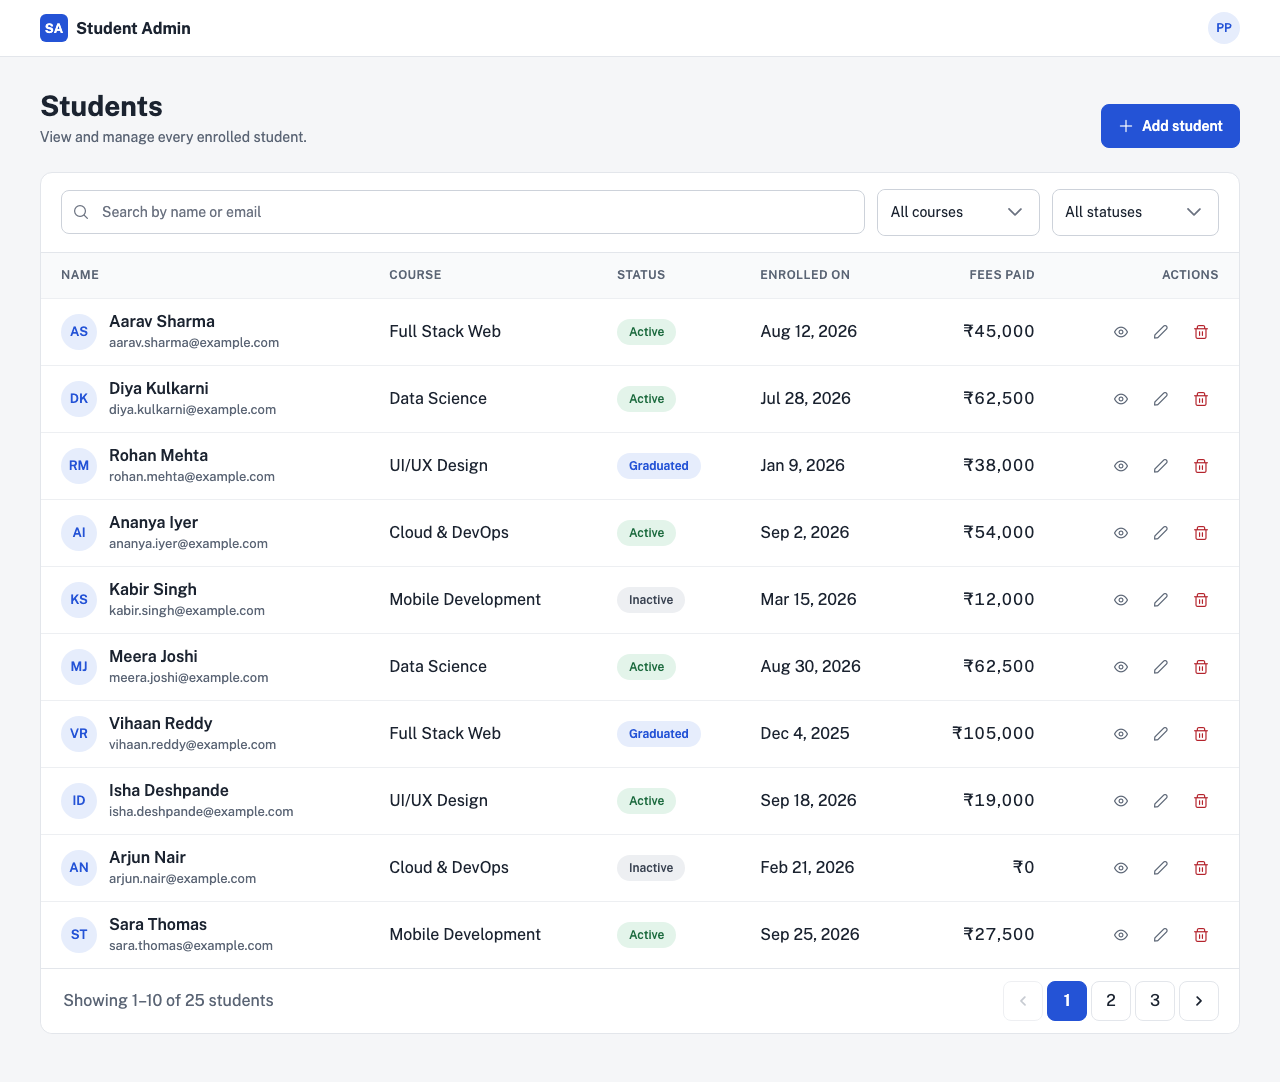
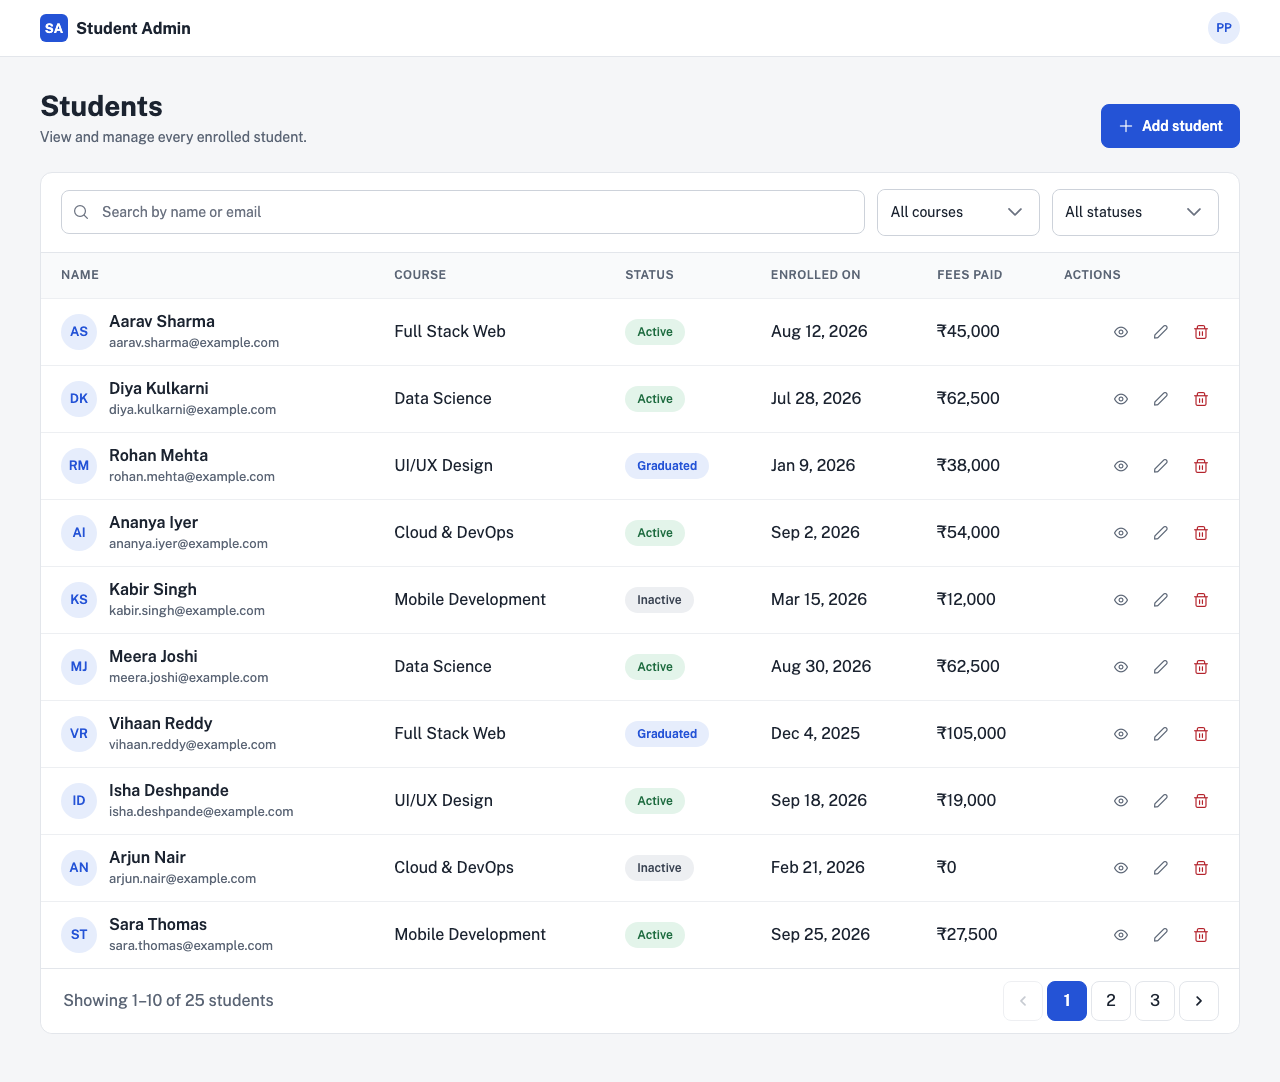
HW1: show students as cards on phones (≤ 768px)
On phones the table scrolled sideways inside its box, so only the name
and half the course were visible. Each row is now a card: name + status
on top, Course / Enrolled on / Fees paid as label-value lines, actions
at the bottom. Tablets (769–1024) keep the in-box scrolling table.

PrimeReact's responsiveLayout="stack" renders the per-cell labels; its
runtime-injected CSS did not apply in Next.js, so the card layout lives
in _app-data-table.scss. Mobile design frame, design check, responsive
report, walkthrough and screenshots updated.

diff --git a/docs/design/Mobile.dc.html b/docs/design/Mobile.dc.html
@@ -61,37 +61,35 @@ a{color:#2453D6}a:hover{color:#1A3FA8}
         </label>
       </div>
 
-      <!-- Table scrolls sideways inside this box only; the page itself never scrolls sideways -->
-      <div style="overflow-x: auto">
-        <table style="min-width: 760px; width: 100%; border-collapse: collapse; text-align: left">
-          <thead>
-            <tr style="background: #F9FAFB; color: #5B6575; font-size: 12px; text-transform: uppercase; letter-spacing: 0.04em">
-              <th style="padding: 10px 12px; font-weight: 600">Name</th>
-              <th style="padding: 10px 12px; font-weight: 600">Course</th>
-              <th style="padding: 10px 12px; font-weight: 600">Status</th>
-              <th style="padding: 10px 12px; font-weight: 600">Enrolled on</th>
-              <th style="padding: 10px 12px; font-weight: 600; text-align: right">Fees paid</th>
-            </tr>
-          </thead>
-          <tbody>
-            <sc-for list="{{rows}}" as="row" hint-placeholder-count="6">
-              <tr style="border-top: 1px solid #EDEFF2">
-                <td style="padding: 10px 12px">
-                  <div style="display: flex; flex-direction: column">
-                    <span style="font-weight: 600">{{row.name}}</span>
-                    <span style="color: #5B6575; font-size: 12px">{{row.email}}</span>
-                  </div>
-                </td>
-                <td style="padding: 10px 12px">{{row.course}}</td>
-                <td style="padding: 10px 12px"><span style="{{row.tagStyle}}">{{row.status}}</span></td>
-                <td style="padding: 10px 12px; color: #3A4352">{{row.enrolledOn}}</td>
-                <td style="padding: 10px 12px; text-align: right">{{row.fees}}</td>
-              </tr>
-            </sc-for>
-          </tbody>
-        </table>
+      <!-- Card list: one card per student, every field visible without sideways scrolling -->
+      <div style="display: flex; flex-direction: column">
+        <sc-for list="{{rows}}" as="row" hint-placeholder-count="5">
+          <article style="position: relative; padding: 16px; border-top: 1px solid #EDEFF2; display: flex; flex-direction: column; gap: 4px">
+            <div style="display: flex; align-items: center; gap: 12px; padding-right: 96px; padding-bottom: 8px">
+              <span style="flex: none; width: 36px; height: 36px; border-radius: 50%; background: #E6EDFC; color: #2453D6; display: flex; align-items: center; justify-content: center; font-weight: 600; font-size: 13px">{{row.initials}}</span>
+              <div style="display: flex; flex-direction: column; min-width: 0">
+                <span style="font-weight: 600">{{row.name}}</span>
+                <span style="color: #5B6575; font-size: 12px; overflow: hidden; text-overflow: ellipsis; white-space: nowrap">{{row.email}}</span>
+              </div>
+            </div>
+            <span style="position: absolute; top: 16px; right: 16px"><span style="{{row.tagStyle}}">{{row.status}}</span></span>
+            <div style="display: flex; justify-content: space-between; gap: 16px"><span style="color: #5B6575; font-size: 13px">Course</span><span>{{row.course}}</span></div>
+            <div style="display: flex; justify-content: space-between; gap: 16px"><span style="color: #5B6575; font-size: 13px">Enrolled on</span><span>{{row.enrolledOn}}</span></div>
+            <div style="display: flex; justify-content: space-between; gap: 16px"><span style="color: #5B6575; font-size: 13px">Fees paid</span><span>{{row.fees}}</span></div>
+            <div style="display: flex; justify-content: flex-end; gap: 4px; margin-top: 8px; padding-top: 8px; border-top: 1px solid #EDEFF2">
+              <button type="button" aria-label="View student" style="width: 44px; height: 44px; border: 0; border-radius: 8px; background: transparent; color: #5B6575; display: flex; align-items: center; justify-content: center">
+                <svg width="18" height="18" viewBox="0 0 24 24" fill="none" stroke="currentColor" stroke-width="2" stroke-linecap="round" stroke-linejoin="round" aria-hidden="true"><path d="M2 12s3.6-7 10-7 10 7 10 7-3.6 7-10 7S2 12 2 12z"/><circle cx="12" cy="12" r="3"/></svg>
+              </button>
+              <button type="button" aria-label="Edit student" style="width: 44px; height: 44px; border: 0; border-radius: 8px; background: transparent; color: #5B6575; display: flex; align-items: center; justify-content: center">
+                <svg width="18" height="18" viewBox="0 0 24 24" fill="none" stroke="currentColor" stroke-width="2" stroke-linecap="round" stroke-linejoin="round" aria-hidden="true"><path d="M12 20h9"/><path d="M16.5 3.5a2.1 2.1 0 0 1 3 3L7 19l-4 1 1-4z"/></svg>
+              </button>
+              <button type="button" aria-label="Delete student" style="width: 44px; height: 44px; border: 0; border-radius: 8px; background: transparent; color: #B4232C; display: flex; align-items: center; justify-content: center">
+                <svg width="18" height="18" viewBox="0 0 24 24" fill="none" stroke="currentColor" stroke-width="2" stroke-linecap="round" stroke-linejoin="round" aria-hidden="true"><path d="M3 6h18M8 6V4h8v2M19 6l-1 14H6L5 6"/></svg>
+              </button>
+            </div>
+          </article>
+        </sc-for>
       </div>
-      <p style="margin: 0; padding: 8px 12px; color: #5B6575; font-size: 12px; border-top: 1px solid #EDEFF2">Swipe the table sideways to see all columns.</p>
 
       <!-- Pagination: wraps onto two lines -->
       <div style="padding: 12px; display: flex; flex-wrap: wrap; align-items: center; justify-content: center; gap: 8px; border-top: 1px solid #E3E6EB; color: #5B6575">
@@ -108,7 +106,7 @@ a{color:#2453D6}a:hover{color:#1A3FA8}
   </main>
 </div>
 </x-dc>
-<script type="text/x-dc" data-dc-script data-props='{"$preview":{"width":375,"height":1500}}'>
+<script type="text/x-dc" data-dc-script data-props='{"$preview":{"width":375,"height":2500}}'>
 class Component extends DCLogic {
 renderVals() {
 var tag = {
@@ -130,7 +128,7 @@ var data = [
 ];
 return {
 rows: data.map(function (d) {
-return { name: d[0], email: d[1], course: d[2], status: d[3], enrolledOn: d[4], fees: d[5], tagStyle: tag[d[3]] };
+return { name: d[0], email: d[1], course: d[2], status: d[3], enrolledOn: d[4], fees: d[5], tagStyle: tag[d[3]], initials: d[0].split(' ').map(function (p) { return p[0]; }).join('') };
 })
 };
 }

diff --git a/frontend/src/styles/components/_app-data-table.scss b/frontend/src/styles/components/_app-data-table.scss
@@ -125,29 +125,97 @@
 .app-data-table-table {
   width: 100%;
   min-width: $table-min-width;
-}
 
-// Number columns: right-aligned, digits line up
-.app-data-table-cell-number,
-.app-data-table-cell-actions {
-  text-align: right;
-
-  .p-column-header-content {
-    justify-content: flex-end;
+  @include below("md") {
+    min-width: 0;
   }
 }
 
-.app-data-table-cell-number {
-  font-variant-numeric: tabular-nums;
-  white-space: nowrap;
+// ---- Card layout (≤ 768px) ----
+// Each row becomes a card: header row hidden, every cell on its own line with its column name
+// as a label. PrimeReact already renders that label in each cell (.p-column-title, hidden by default).
+// AppDataTable sets responsiveLayout="stack" so those labels are rendered. PrimeReact's own
+// stack CSS is injected at runtime and didn't apply here, so the layout lives in this file.
+@include below("md") {
+  .app-data-table {
+    .p-datatable-thead {
+      display: none;
+    }
+
+    // Plain blocks, so the cards are exactly as wide as the list card
+    .p-datatable-table,
+    .p-datatable-tbody {
+      display: block;
+      width: 100%;
+    }
+
+    .p-datatable-tbody > tr:not(.p-datatable-emptymessage) {
+      position: relative;
+      display: block;
+      padding: $space-4;
+      border-top: $border-width solid c("gray-g3");
+
+      &:first-child {
+        border-top: none;
+      }
+
+      > td,
+      > td:first-child,
+      > td:last-child {
+        display: flex;
+        align-items: center;
+        justify-content: space-between;
+        gap: $space-4;
+        padding: $space-1 0;
+        border: none;
+        text-align: right;
+      }
+
+      // Label on the left ("Course", "Enrolled on", "Fees paid")
+      .p-column-title {
+        display: block;
+        flex: none;
+        color: c("gray-g7");
+        font-size: $font-size-sm;
+        text-align: left;
+      }
+
+      // Name: no label, full width, room on the right for the status pill
+      > td.app-data-table-cell-lead {
+        justify-content: flex-start;
+        padding-right: $card-badge-space;
+        padding-bottom: $space-3;
+        text-align: left;
+      }
+
+      // Status pill: top-right corner of the card, no label
+      > td.app-data-table-cell-badge {
+        position: absolute;
+        top: $space-4;
+        right: $space-4;
+        padding: 0;
+      }
+
+      // Actions: icons on the right, no label, divider above
+      > td.app-data-table-cell-actions {
+        justify-content: flex-end;
+        margin-top: $space-2;
+        padding-top: $space-2;
+        border-top: $border-width solid c("gray-g3");
+      }
+
+      > td.app-data-table-cell-lead,
+      > td.app-data-table-cell-badge,
+      > td.app-data-table-cell-actions {
+        .p-column-title {
+          display: none;
+        }
+      }
+    }
+  }
 }
 
-// Short values that must stay on one line (dates)
-.app-data-table-cell-nowrap {
-  white-space: nowrap;
-}
-
-// "Swipe sideways" hint, only where the table is wider than its box
+// "Swipe sideways" hint, only on tablets where the table is wider than its box (phones get cards)
 .app-data-table-scroll-hint {
   display: none;
   margin: 0;
@@ -156,7 +224,7 @@
   color: c("gray-g7");
   font-size: $font-size-xs;
 
-  @include below("lg") {
+  @include between("md", "lg") {
     display: block;
   }
 }

diff --git a/frontend/src/components/common/AppDataTable.tsx b/frontend/src/components/common/AppDataTable.tsx
@@ -2,6 +2,7 @@
 
 import type { ReactNode } from "react";
 import { DataTable, type DataTablePageEvent, type DataTableValue } from "primereact/datatable";
+import { BREAKPOINTS } from "@/utils/breakpoints";
 import TableSkeleton from "./TableSkeleton";
 
 interface AppDataTableProps<T extends DataTableValue> {
@@ -23,7 +24,8 @@ interface AppDataTableProps<T extends DataTableValue> {
 }
 
 // Shared list table: PrimeReact DataTable + WM loading/empty states + pagination.
-// The table scrolls sideways inside its own box, never the page.
+// Phones and small tablets (≤ 768px): each row becomes a card (CSS only, see _app-data-table.scss).
+// Wider screens: a normal table that scrolls sideways inside its own box if needed, never the page.
 export default function AppDataTable<T extends DataTableValue>({
   value,
   dataKey,
@@ -41,7 +43,7 @@ export default function AppDataTable<T extends DataTableValue>({
     return <TableSkeleton rows={rows} columns={5} label={`Loading ${recordLabel}…`} />;
   }
 
-  // Shown only on screens narrower than the table (see SCSS)
+  // Shown only on tablets where the table is wider than its box (see SCSS)
   const scrollHint =
     value.length > 0 ? (
       <p className="app-data-table-scroll-hint">Swipe the table sideways to see all columns.</p>
@@ -54,6 +56,9 @@ export default function AppDataTable<T extends DataTableValue>({
       aria-label={ariaLabel}
       value={value}
       dataKey={dataKey}
+      // "stack" makes PrimeReact render a column-name label in every cell (used by the card layout)
+      responsiveLayout="stack"
+      breakpoint={BREAKPOINTS.md}
       emptyMessage={emptyState}
       footer={scrollHint}
       paginator={value.length > 0}

diff --git a/frontend/src/components/students/StudentListScreen.tsx b/frontend/src/components/students/StudentListScreen.tsx
@@ -116,10 +116,15 @@ export default function StudentListScreen() {
           >
             <Column
               header="Name"
+              className="app-data-table-cell-lead"
               body={(student: Student) => <StudentNameCell name={student.name} email={student.email} />}
             />
             <Column header="Course" field="course" />
-            <Column header="Status" body={(student: Student) => <StudentStatusTag status={student.status} />} />
+            <Column
+              header="Status"
+              className="app-data-table-cell-badge"
+              body={(student: Student) => <StudentStatusTag status={student.status} />}
+            />
             <Column
               header="Enrolled on"
               className="app-data-table-cell-nowrap"

diff --git a/frontend/src/styles/_variables.scss b/frontend/src/styles/_variables.scss
@@ -100,6 +100,7 @@ $search-min-width: 17.5rem; // 280
 $table-min-width: 60rem; // 960: below this the table scrolls inside its box
 $state-text-max-width: 26.25rem; // 420
 $name-cell-max-width: 18rem; // 288: long emails get "…"
+$card-badge-space: 6.5rem; // 104: room for the status pill in the top-right of a card
 $skeleton-line-height: 0.75rem; // 12
 $skeleton-line-width: 70%;
 $skeleton-line-width-wide: 55%;

diff --git a/frontend/src/utils/breakpoints.ts b/frontend/src/utils/breakpoints.ts
@@ -1,0 +1,14 @@
+// WM breakpoints for TypeScript props that need a width (e.g. PrimeReact `breakpoint`).
+// Keep in sync with $breakpoints in src/styles/_variables.scss.
+export const BREAKPOINTS = {
+  xxl: "1920px",
+  xl2: "1600px",
+  xl: "1366px",
+  lg2: "1280px",
+  lg: "1024px",
+  md2: "991px",
+  md: "768px",
+  sm2: "640px",
+  sm: "480px",
+  xs: "375px",
+} as const;

diff --git a/frontend/src/styles/_mixins.scss b/frontend/src/styles/_mixins.scss
@@ -7,3 +7,10 @@
     @content;
   }
 }
+
+// Between two WM breakpoints, e.g. @include between("md", "lg") = 769px … 1024px
+@mixin between($from, $to) {
+  @media (width > map.get($breakpoints, $from)) and (width <= map.get($breakpoints, $to)) {
+    @content;
+  }
+}

diff --git a/docs/hw1-walkthrough.md b/docs/hw1-walkthrough.md
@@ -300,10 +300,11 @@ src/styles/
 
 ### Responsive (all screen sizes)
 - `@include below("md") { … }` = `@media (max-width: 768px) { … }`. The names map to the WM widths 1920, 1600, 1366, 1280, 1024, 991, 768, 640, 480 and 375.
-- The **table is wider than a phone**, so it gets `min-width: 960px` and sits inside a box with `overflow-x: auto`. The **table** scrolls sideways inside its box, **the page never does**. That's the WM rule "no sideways scroll".
-- On phones the filters stack (search on its own row, the two dropdowns share the next one), the "Add student" button wraps under the title, and the pagination wraps onto two lines.
+- **Phones and small tablets (≤ 768px): every row becomes a card.** The header row is hidden. Each cell sits on its own line with its column name as a label ("Course", "Enrolled on", "Fees paid"). The status pill sits in the top-right corner and the action icons along the bottom. PrimeReact renders those labels because `AppDataTable` sets `responsiveLayout="stack"`. The card look itself is our SCSS (`_app-data-table.scss`, the `below("md")` block).
+- **Tablets (769–1024px):** the table needs about 960px, so it gets `min-width: 960px` inside a box with `overflow-x: auto`. The **table** scrolls inside its box, and a small hint says "Swipe the table sideways". **The page itself never scrolls sideways.** That's the WM rule.
+- On phones the filters also stack (search on its own row, the two dropdowns share the next one), the "Add student" button wraps under the title, and the pagination wraps onto two lines.
 
-**Say it like this:** "All raw values live in `_variables.scss`. Components only use variables. Colours are CSS variables with a day and a night value of the same name, so dark mode is one switch. On small screens the table scrolls inside its own box, so the page never scrolls sideways."
+**Say it like this:** "All raw values live in `_variables.scss`. Components only use variables. Colours are CSS variables with a day and a night value of the same name, so dark mode is one switch. On phones each row becomes a card, and on tablets the table scrolls inside its own box, so the page never scrolls sideways."
 
 ---
 
@@ -375,7 +376,10 @@ Try to answer each one aloud before reading the answer.
     All colours are in `_variables.scss` as WM-named day/night pairs. Components use `c("name")`, which becomes a CSS variable. A grep audit found zero hex colours outside that file.
 
 13. **How did you make sure there's no sideways scroll on phones?**
-    The table scrolls inside its own `overflow-x: auto` box, and the filters and buttons wrap. A Playwright test checks `scrollWidth <= clientWidth` at all 10 WM widths for every state, and I checked the screenshots by eye.
+    At ≤ 768px every row becomes a card, so nothing is wider than the screen. On tablets the table scrolls inside its own `overflow-x: auto` box. The filters and buttons wrap. A Playwright test checks `scrollWidth <= clientWidth` at all 10 WM widths for every state, and I checked the screenshots by eye.
+
+13b. **Why cards on mobile instead of a scrolling table?**
+    The first version scrolled the table sideways on phones. You only saw the name and half the course, and status, dates, fees and the action buttons were hidden behind a swipe. Cards show every field at once. The design's mobile frame was updated to match.
 
 14. **Why is the date shown as `Aug 12, 2026` and not `12/08/2026`?**
     The WM date format for English is `May 1, 2016` or `YYYY-MM-DD`. `formatDate` does it in one place.

diff --git a/docs/design-check.md b/docs/design-check.md
@@ -1,7 +1,7 @@
 # Design check: Student List (HW1)
 
 Design: Claude Design canvas "Student List — HW1 Design" (https://claude.ai/artifact/6aoviCMyXxbLHgLPu5XyCL)
-Frames: desktop filled (1440) · empty / no results (1440) · loading skeleton (1440) · mobile filled (375)
+Frames: desktop filled (1440) · empty / no results (1440) · loading skeleton (1440) · mobile filled (375, card list)
 Source copy in repo: `docs/design/*.dc.html`
 
 Checked against training Step 2 Part A and `.claude/wm/wm-contract.md` (HTML development guideline, Design guidelines for designers).
@@ -28,11 +28,11 @@ Checked against training Step 2 Part A and `.claude/wm/wm-contract.md` (HTML dev
 5. **Error state** (list fails to load) is not drawn. My assumption is the same block as empty, with an error icon, the API message and a "Try again" button. It's needed in HW2.
 6. **Date format:** WM allows `May 1, 2016` or `YYYY-MM-DD`. The design uses a short month (`Aug 12, 2026`). Is the 3-letter month acceptable, or should it be the full month name?
 7. **Fees:** the WM three-digit comma rule gives `₹105,000`, not Indian grouping `₹1,05,000`. Please confirm.
-8. **Tablet (768–1024):** not drawn. My assumption is the table scrolls inside its box once the card is narrower than the table (about 960px), and the filters wrap.
+8. **Tablet (768–1024):** not drawn. Built as: cards up to 768px. From 769 to 1024 the table scrolls inside its own box (it needs about 960px) and the filters wrap.
 9. **Mobile actions:** the Actions column is left out at 375. How does a phone user view, edit or delete? Tap the row, or keep the action icons in a sticky last column?
 10. **Sorting:** columns show no sort indicator. Which columns can be sorted? (HW2 test cases cover sort.)
 11. **Rows per page:** fixed at 10, or should there be a selector?
 12. **Dark mode:** only light is drawn. WM needs a 1:1 dark colour for every light colour. Should the dark palette be drawn, or will developers derive it?
 
 ## Assumptions I'm building with (until answered)
-- Q1: 16px gutter at ≤ 768. Q3: name wraps, email gets "…". Q4: the empty block changes its text and button. Q5: the error block mirrors the empty block. Q6: short month. Q7: `₹105,000`. Q8: scroll inside the box. Q9: action icons stay in the scrolling table on mobile. Q10: sorting deferred to HW2. Q11: fixed at 10. Q12: dark tokens defined in SCSS, light theme only shown.
+- Q1: 16px gutter at ≤ 768. Q3: name wraps, email gets "…". Q4: the empty block changes its text and button. Q5: the error block mirrors the empty block. Q6: short month. Q7: `₹105,000`. Q8: scroll inside the box. Q9: **resolved 2026-10-06**. The first build kept a sideways-scrolling table on phones, and in review that hid status, dates, fees and actions behind a swipe. At ≤ 768px each student is now a card (name + status on top, then Course / Enrolled on / Fees paid, actions at the bottom). The mobile design frame was updated to match. Q10: sorting deferred to HW2. Q11: fixed at 10. Q12: dark tokens defined in SCSS, light theme only shown.

diff --git a/docs/responsive-report.md b/docs/responsive-report.md
@@ -16,21 +16,22 @@ Screenshots: `docs/screenshots/<state>/<width>.png`
 | 1600 | PASS | PASS | PASS | PASS | |
 | 1366 | PASS | PASS | PASS | PASS | Matches the desktop frame |
 | 1280 | PASS | PASS | PASS | PASS | |
-| 1024 | PASS | PASS | PASS | PASS | Table slightly wider than the card, so it scrolls inside its box and the hint shows |
+| 1024 | PASS | PASS | PASS | PASS | Table slightly wider than the card, so it scrolls inside its box and the "swipe" hint shows |
 | 991 | PASS | PASS | PASS | PASS | |
-| 768 | PASS | PASS | PASS | PASS | Gutter 16px. Table scrolls inside its box. Dates stay on one line |
-| 640 | PASS | PASS | PASS | PASS | Filters: search on its own row, dropdowns share the next |
+| 768 | PASS | PASS | PASS | PASS | Gutter 16px. Rows shown as cards (labels left, values right, status top-right, actions at the bottom) |
+| 640 | PASS | PASS | PASS | PASS | Cards. Filters: search on its own row, dropdowns share the next |
 | 480 | PASS | PASS | PASS | PASS | |
-| 375 | PASS | PASS | PASS | PASS | Matches the mobile frame: button wraps under the title, pagination wraps |
+| 375 | PASS | PASS | PASS | PASS | Cards. Every field visible without swiping. Matches the updated mobile frame. Button wraps under the title, pagination wraps |
 
 Browser: Chromium (Playwright, Desktop Chrome profile). Not checked: Safari and Firefox.
 
 ## Fixed during the check
 - 375: dropdown placeholders were cut off ("All cour…"). Fixed with a narrower chevron area on phones.
 - 768: dates wrapped onto two lines. Fixed with `white-space: nowrap` on the date column.
-- The "Swipe the table sideways" hint from the mobile design was missing. Added; it shows at ≤ 1024.
+- **Phones showed only the name and half the course** (found in review). Everything else needed a sideways swipe inside the table. Fixed by turning each row into a card at ≤ 768px. PrimeReact's `responsiveLayout="stack"` renders a label in each cell, but its runtime CSS injection didn't apply in Next.js, so the card layout is our own SCSS in `_app-data-table.scss`.
+- "Swipe the table sideways" hint: shows only from 769 to 1024px, where the table still scrolls inside its box.
 - The empty-state icon was smaller than in the design. primeicons sets its own size, so it's overridden.
 
 ## Differences from the design / open questions
 - The swipe hint renders below the pagination (PrimeReact puts the table footer there), while the design has it above.
-- Q9 in `design-check.md`: the design has no Actions column on mobile. The build keeps the action icons in the scrolling table so they stay reachable.
+- Q9 in `design-check.md` is resolved: cards on mobile, with the action icons at the bottom of each card.

diff --git a/docs/prompt-log.md b/docs/prompt-log.md
@@ -39,6 +39,14 @@ yes go ahead and let me know one the homework 1 is done along with the notion pa
 
 ### Follow-up prompts / corrections
 ```
+1. Yes push the branch.
+2. Guide me step by step on getting the demo link at a beginner level.
+3. I'll share the design link. Remind me later.
+4. I'll do it once everything is settled.
+5. I will need a clear, beginner level walkthrough as I am completely new to this, so that I can explain it to anyone.
+```
+```
+[screenshot of the list in Chrome DevTools at phone width] the mobile view doesn't seem good.
 ```
 
 ## HW2
